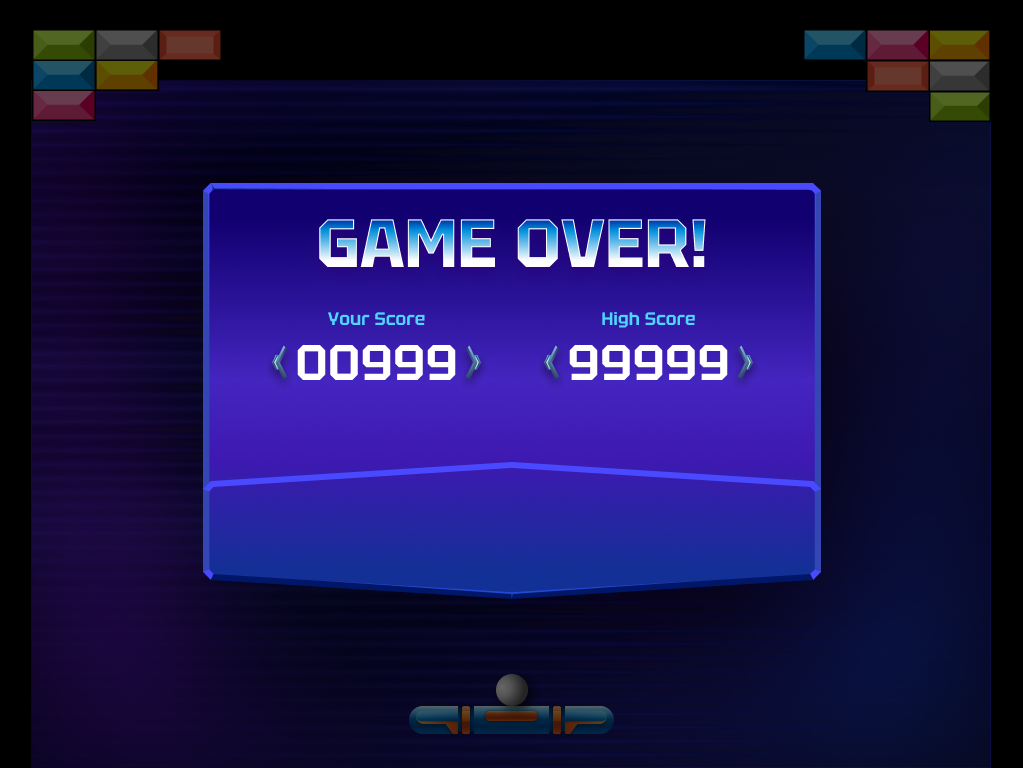
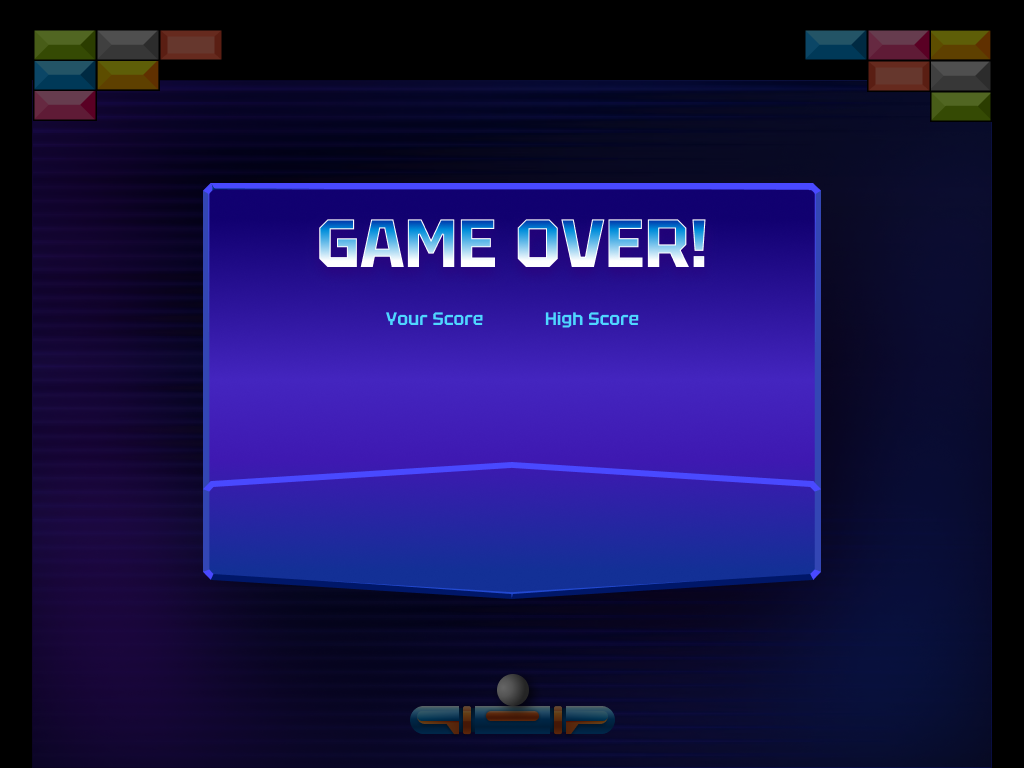
thêm điểm cho màn thua

diff --git a/src/game/view/screens/OverScreen.java b/src/game/view/screens/OverScreen.java
@@ -2,10 +2,14 @@ package game.view.screens;
 
 import game.Constants;
 import game.model.GameModel;
+import game.model.manager.FontManager;
 import game.model.manager.GameStateManager;
+import game.model.manager.HighScoreManager;
 import game.view.UI.UIButton;
+import game.view.UI.UILabel;
 
 import java.awt.*;
+import java.util.function.Supplier;
 
 import static game.Constants.BUTTON_HEIGHT;
 import static game.Constants.BUTTON_WIDTH;
@@ -39,5 +43,28 @@ public class OverScreen extends Screen {
                     model.getGameStateManager().setGameMenu();
                 }) //action chạy khi click vào nút
         );
+
+        String levelName = model.getLevelManager().getCurrentLevel().getName();
+        Font scoreFont = FontManager.getFont("Tektur Bold", 32f);
+        Color textColor = Color.WHITE;
+        uiManager.add(new UILabel(
+                400,
+                400,
+                ()->""+model.getScoreSystem().getScore(),
+                textColor,
+                scoreFont
+        ));
+        Supplier<String> scoreTextSupplier = () -> {
+            int highScore = HighScoreManager.getHighScore(levelName);
+            return "" + (highScore > 0 ? highScore : "0000");
+        };
+        uiManager.add(new UILabel(
+                550,
+                400,
+                scoreTextSupplier,
+                textColor,
+                scoreFont
+        ));
+
     }
 }
